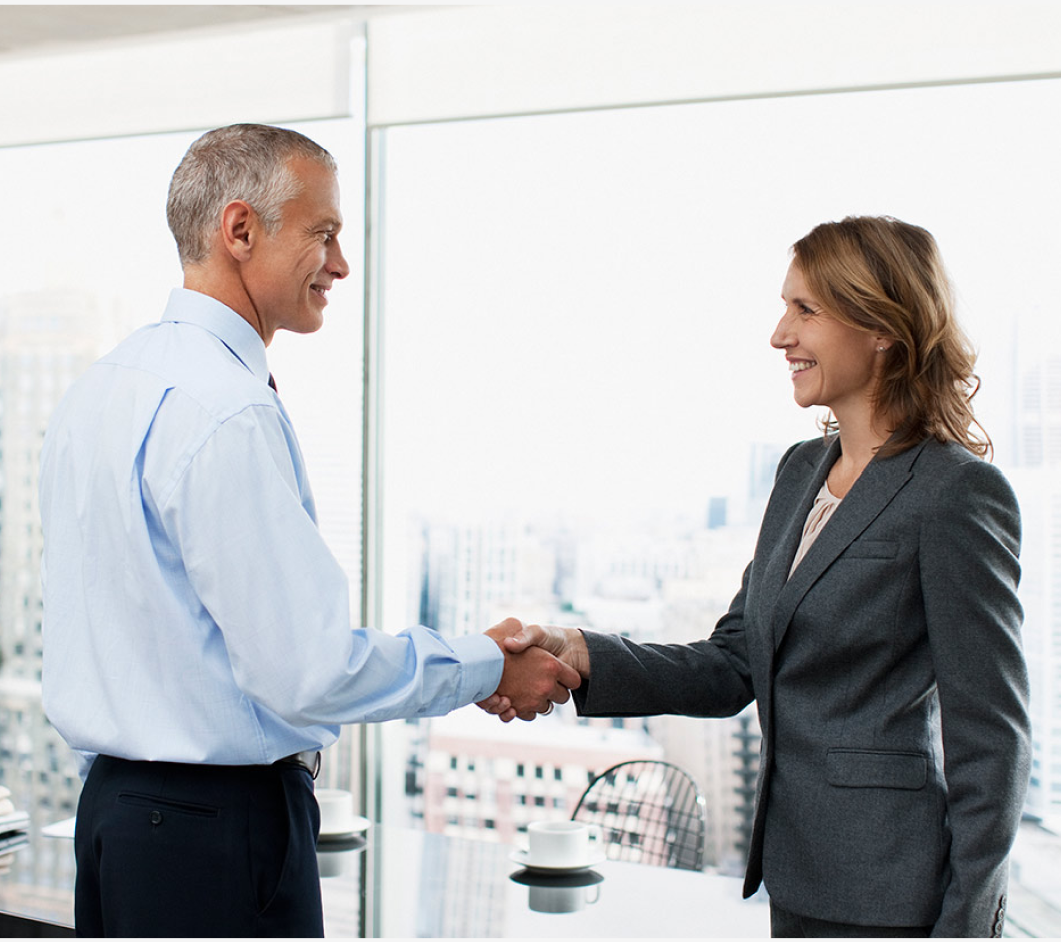
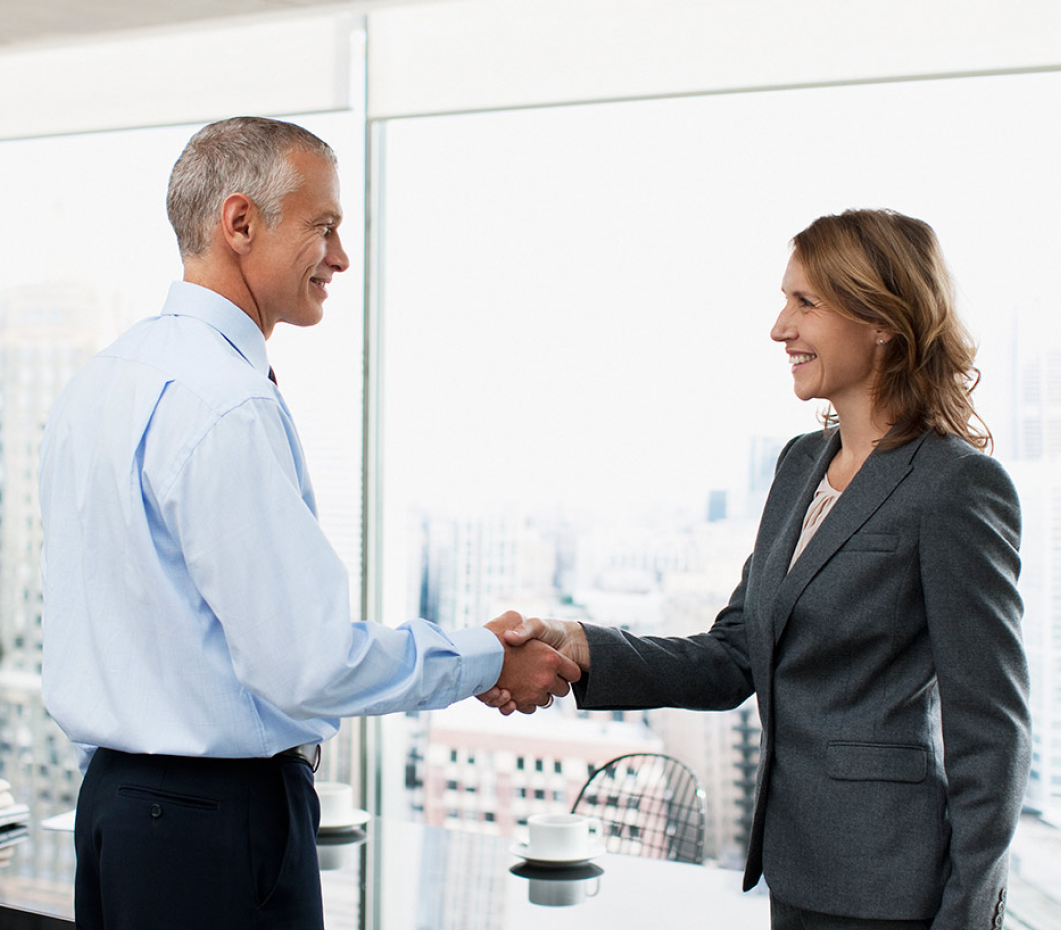
Made lading page responsive

diff --git a/src/pages/index.tsx b/src/pages/index.tsx
@@ -17,7 +17,7 @@ const Home: NextPage = () => {
         <title>ProSpects</title>
         <link rel='icon' href='/favicon.ico' />
       </Head>
-      <main className='flex min-h-screen flex-col items-center justify-center bg-primary-600'>
+      <main className='flex min-h-screen min-w-fit flex-col items-center justify-center bg-primary-600'>
         <TopMenuBar></TopMenuBar>
         <LandingPageBody></LandingPageBody>
       </main>
@@ -72,26 +72,52 @@ const AuthShowcase: React.FC = () => {
 };
 
 const LandingPageBody: React.FC = () => {
+  const { data } = useSession();
+
   return (
     <>
-      <div className='flex w-full flex-grow flex-row justify-between'>
+      <div className='flex h-screen w-full flex-col bg-primary-600 md:h-auto md:flex-grow md:flex-row'>
         {/* Landing Page Picture */}
-        <div className='relative flex w-6/12 items-center justify-start bg-primary-600'>
+        <div className='relative h-72 md:h-auto md:w-6/12'>
           <Image
             alt='Landing Page Picture'
             src='/LandingPagePicture.png'
             fill
-            className='object-cover'
+            className='rounded-b-2xl object-cover drop-shadow-lg md:rounded-none'
             data-cy='landingPage-picture'
           ></Image>
         </div>
+        {/* Mobile Logo & User Icon */}
+        <div className='my-2 flex w-full justify-between px-5 md:hidden'>
+          <div className='relative  flex h-16 w-1/3'>
+            <Image
+              alt='Landing Page Picture'
+              src='/Logo.png'
+              fill
+              className='object-contain'
+              data-cy='landingPage-picture'
+            ></Image>
+          </div>
+          {data && (
+            <div className='relative h-10 w-10'>
+              <Image
+                alt='Profile Picture'
+                loader={() => data?.user?.image || ''}
+                src={data?.user?.image || ''}
+                fill
+                className='rounded-full object-contain '
+                data-cy='topMenuBar-profile-picture'
+              />
+            </div>
+          )}
+        </div>
         {/* Landing Page Text */}
-        <div className=' flex w-6/12 items-center justify-center bg-primary-600 text-white'>
+        <div className='flex flex-grow items-center justify-center text-white md:w-6/12'>
           <div
-            className='flex w-7/12 flex-col items-start justify-center space-y-10 text-left'
+            className='flex w-10/12 flex-col justify-center space-y-10 text-left md:w-7/12'
             data-cy='landingPage-text-welcome'
           >
-            <p className='text-3xl font-semibold uppercase leading-10'>
+            <p className='text-2xl font-semibold uppercase leading-10 md:text-3xl md:leading-10'>
               We know you&apos;re a{' '}
               <span className='rounded-lg bg-white px-2 py-1 font-bold text-primary-500'>pro</span>
             </p>
@@ -99,12 +125,38 @@ const LandingPageBody: React.FC = () => {
               Welcome to ProSpects! We make it easy to find your ideal job. Connect with people with similar interests
               and expand your network!
             </p>
-            <p>Join us for unlimited opportunites.</p>
-            <Link href='/auth/register' className=' font-bold underline' data-cy='landingPage-link-becomeMember'>
+            <p>Join us for unlimited opportunites!</p>
+            <Link
+              href='/auth/register'
+              className=' hidden font-bold underline md:inline-block'
+              data-cy='landingPage-link-becomeMember'
+            >
               Become a member
             </Link>
           </div>
         </div>
+        {/* Mobile buttons */}
+
+        {data ? (
+          <div className='my-10 flex justify-center space-x-24 whitespace-nowrap md:hidden'>
+            <Button data-cy='signout-button' variant='secondary' reverse onClick={() => signOut()}>
+              Sign Out
+            </Button>
+          </div>
+        ) : (
+          <div className='my-10 flex justify-center space-x-24 whitespace-nowrap md:hidden'>
+            <Link href='/auth/signin'>
+              <Button data-cy='signin-button' variant='secondary' reverse>
+                Login
+              </Button>
+            </Link>
+            <Link href='/auth/register'>
+              <Button data-cy='register-button' reverse>
+                Sign Up
+              </Button>
+            </Link>
+          </div>
+        )}
       </div>
     </>
   );

diff --git a/src/components/topMenuBar.tsx b/src/components/topMenuBar.tsx
@@ -8,7 +8,10 @@ const TopMenuBar: React.FC = () => {
   const { data } = useSession();
 
   return (
-    <div className='flex h-20 w-full items-center justify-between bg-primary-600 pl-5 pr-10' data-cy='topMenuBar'>
+    <div
+      className=' hidden h-20 w-full items-center justify-between bg-primary-600 pl-5 pr-10 md:flex'
+      data-cy='topMenuBar'
+    >
       {/* Logo */}
       <Link href='/' className='relative h-16 w-36' data-cy='topMenuBar-logo'>
         <Image alt='ProSpect Logo' src='/Logo.png' fill className='object-contain' />
